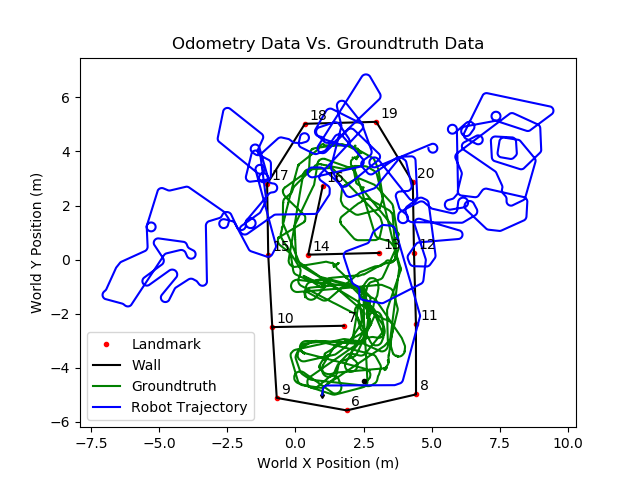
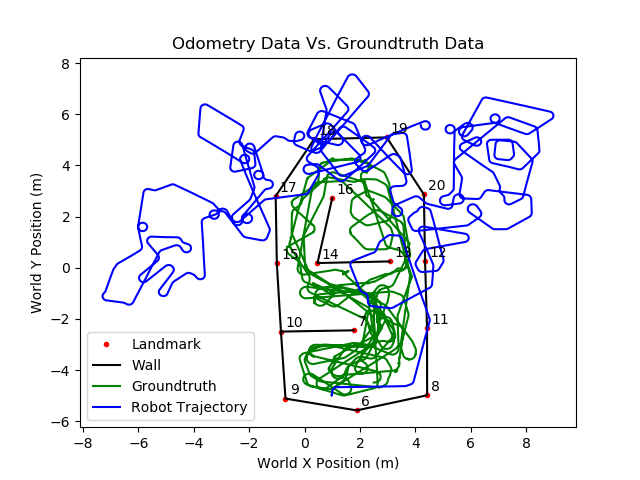
picture update

diff --git a/HW0/robot_library.py b/HW0/robot_library.py
@@ -312,7 +312,7 @@ class Robot:
         # motion model
         for item in enumerate(movement_data):
             # calculate new state
-            self.make_move(item[1], self.cur_pos[:], 0)
+            self.make_move(item[1], self.cur_pos[:], 1)
             self.cur_pos = self.new_pos[:]
 
             self.append_path()
@@ -381,8 +381,8 @@ class Robot:
     # Plot Groundtruth Data
         gt_timestamp, ground_x, ground_y, _ground_t = map(list, zip(*self.groundtruth_data))
 
-        ground_x = ground_x[0:20000]
-        ground_y = ground_y[0:20000]
+        # ground_x = ground_x[0:20000]
+        # ground_y = ground_y[0:20000]
 
         #plt.plot(ground_x[0], ground_y[0], 'kd', markersize=3, label='_nolegend_')
         plt.plot(ground_x, ground_y, 'g')
@@ -404,8 +404,8 @@ class Robot:
     # Plot Odometry Data
         x_arr, y_arr, _t_arr = map(list, zip(*self.motion_path))
 
-        x_arr = x_arr[0:1700]
-        y_arr = y_arr[0:1700]
+        # x_arr = x_arr[0:1700]
+        # y_arr = y_arr[0:1700]
 
         plt.plot(x_arr, y_arr, 'b')
 
@@ -426,7 +426,7 @@ class Robot:
         num_measurements = 0
 
         dt_thresh = 1
-        iter_thresh = 1700
+        iter_thresh = len(self.odom_data) - 2
         delay_thresh = 0
         resample_delay = 0
 
@@ -434,8 +434,8 @@ class Robot:
 
         i = 0
         for i, vel_data in enumerate(self.odom_data):
-            if i % (iter_thresh/4) == 0:
-                print i
+            # if i % (iter_thresh/4) == 0:
+            #     print i
             if i > iter_thresh:
                 break
 
@@ -453,9 +453,12 @@ class Robot:
 
                 # save data for later if there is a measurement between my current and
                 # future timestep threshold
-                while k <= len(self.meas_data):
+
+                while k <= len(self.meas_data)-1:
 
                     # check measurement timestamps against odom timestamp
+                    if i >= len(self.odom_data)-4:
+                        dt_thresh = 0
                     if (self.meas_data[k][0] >= self.odom_data[i][0] and
                             self.meas_data[k][0] < self.odom_data[i+dt_thresh][0] and
                             self.meas_data[k][1] > 5):

diff --git a/HW0/run_me.py b/HW0/run_me.py
@@ -6,10 +6,10 @@ import robot_library
 def main():
     """Main Routine"""
     bot = robot_library.Robot()
-    #bot.part_a6()
-    #bot.part_a2()
+    bot.part_a6()
+    bot.part_a2()
     bot.part_a3()
-    bot.part_b7()
+    #bot.part_b7()
 
     bot.show_plots()
 
